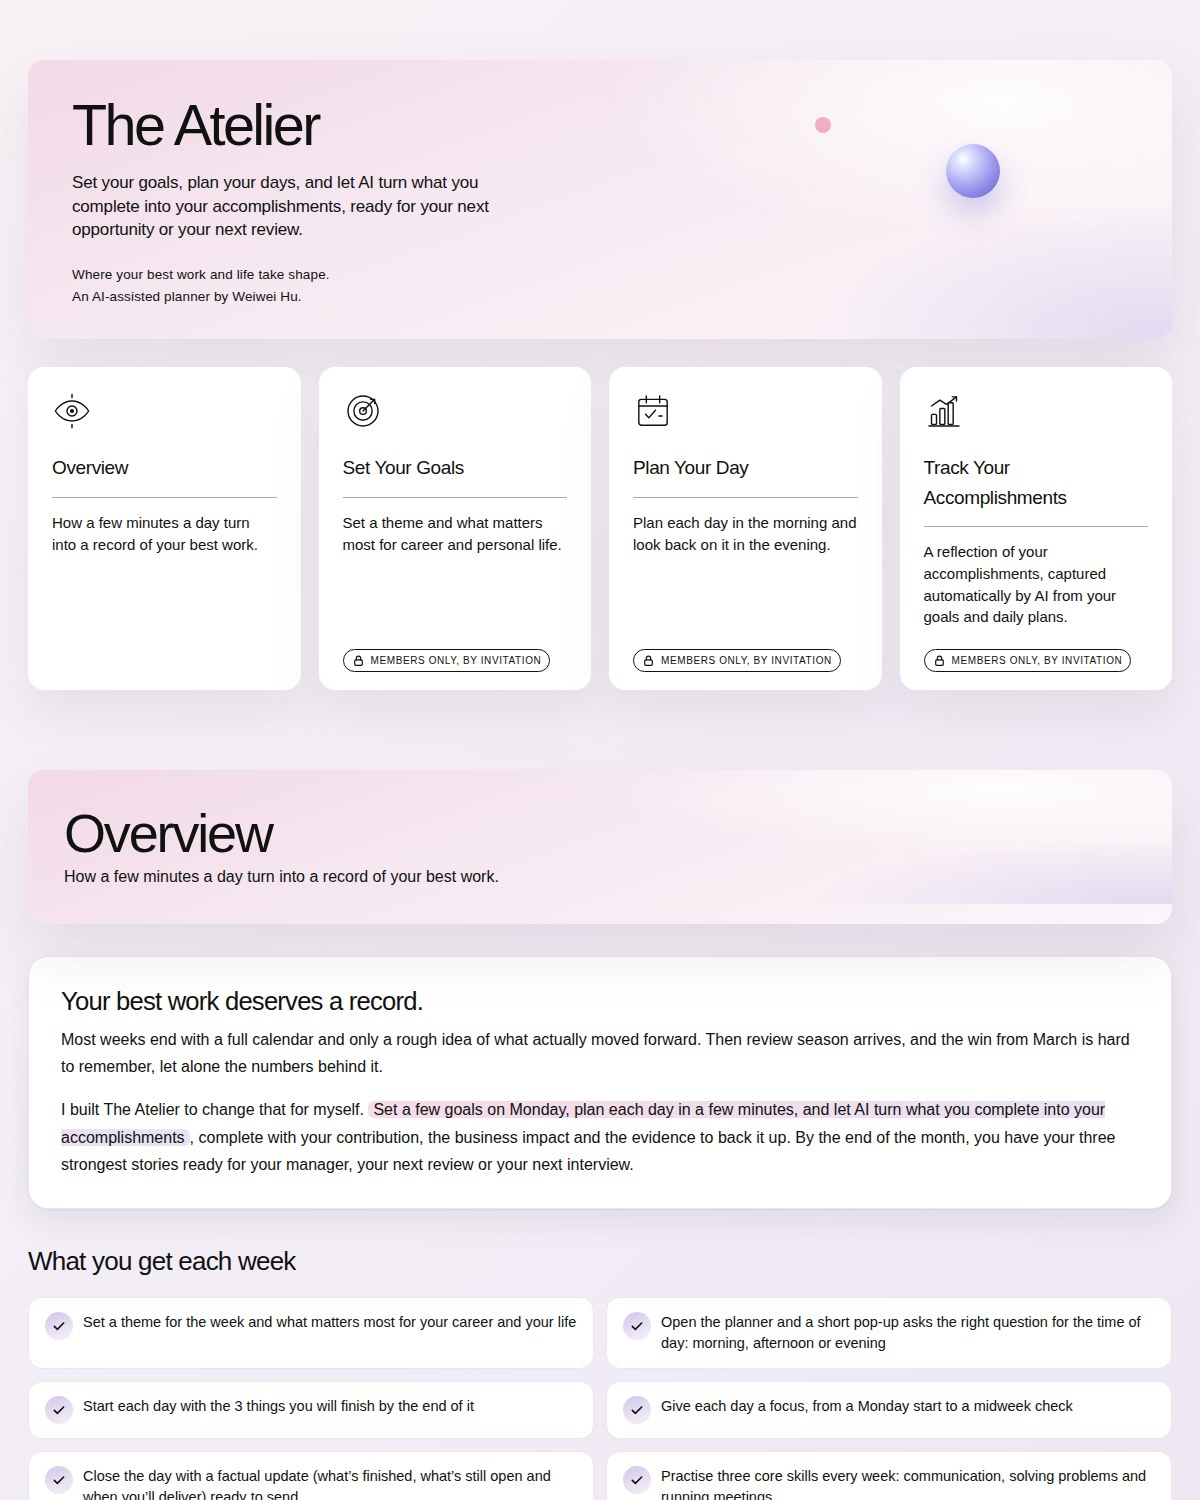
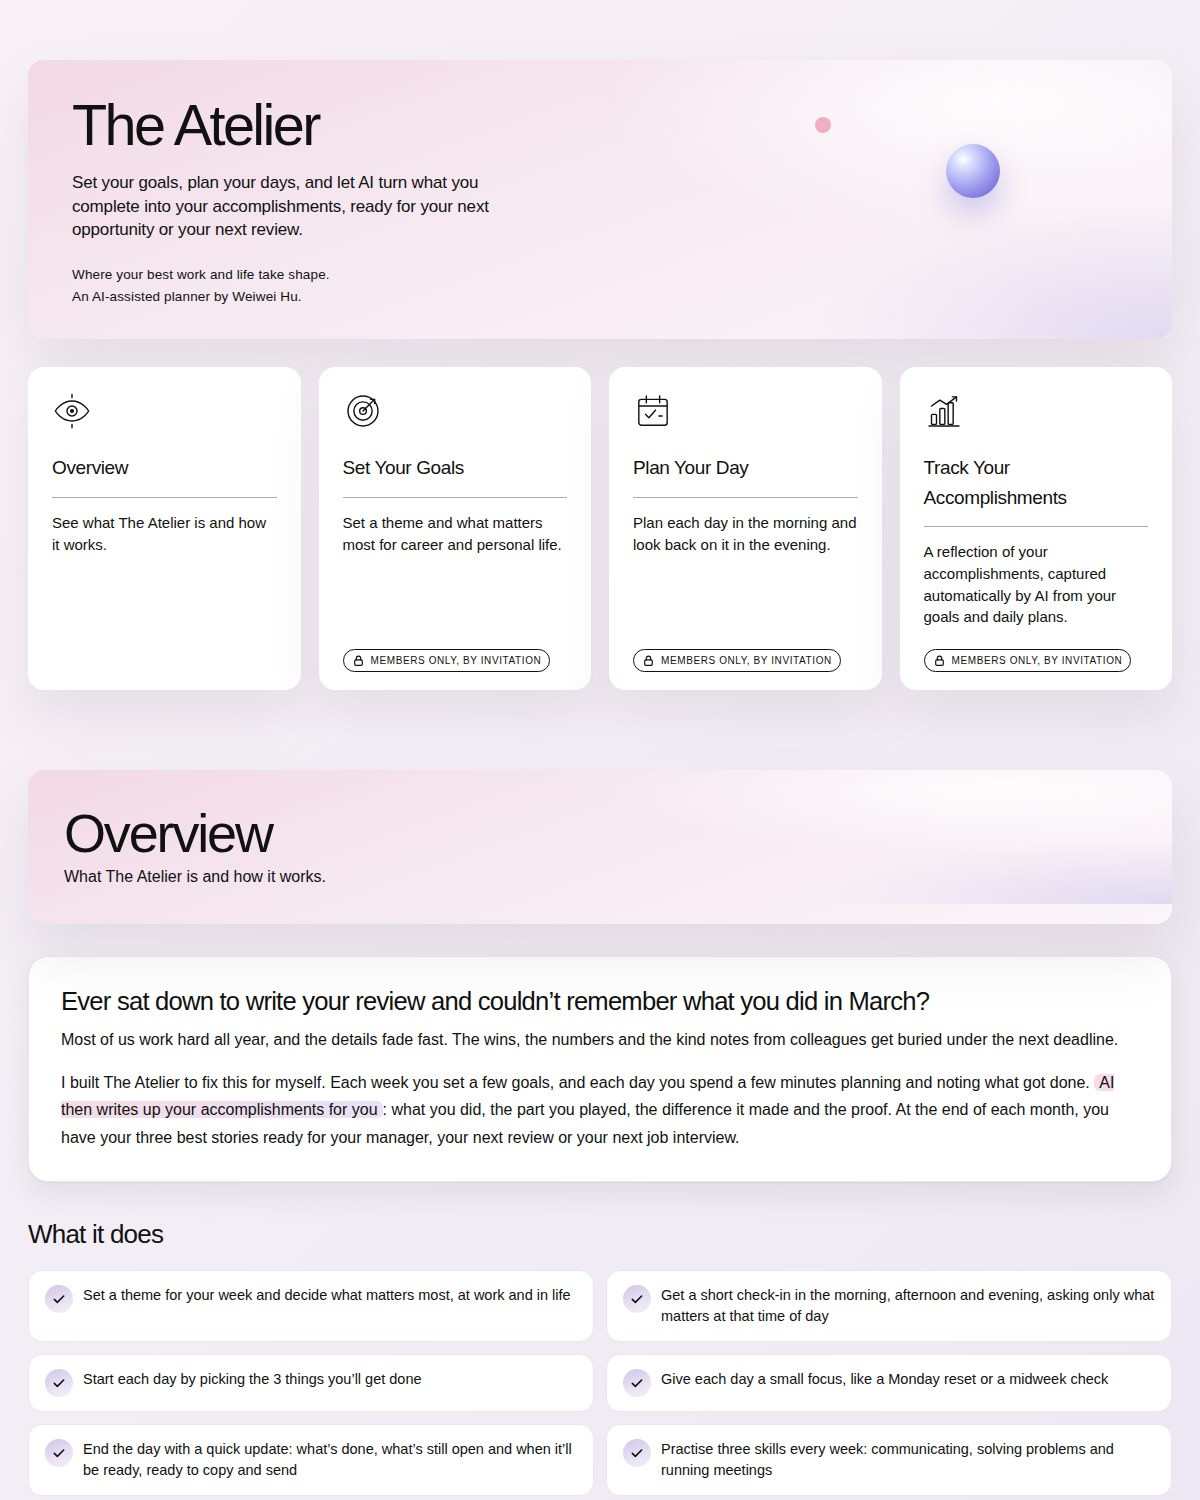
Overview in plain, everyday language

diff --git a/index.html b/index.html
@@ -2472,7 +2472,7 @@ b, strong, .exportbtn, .crumbs button[aria-current="page"], .seg button[aria-pre
     <div class="tilegrid" id="pageTabs">
       <a class="navtile static" href="#overview">
         <span class="nt-head">Overview</span>
-        <span class="nt-body"><svg viewBox="0 0 48 48" fill="none" stroke="currentColor" stroke-width="2.2" stroke-linecap="round" stroke-linejoin="round" aria-hidden="true"><path d="M4 24s7-12 20-12 20 12 20 12-7 12-20 12S4 24 4 24Z"></path><circle cx="24" cy="24" r="6"></circle><circle cx="24" cy="24" r="1.6" fill="currentColor"></circle><path d="M24 4v4M24 40v4"></path></svg><span class="nt-desc">How a few minutes a day turn into a record of your best work.</span></span>
+        <span class="nt-body"><svg viewBox="0 0 48 48" fill="none" stroke="currentColor" stroke-width="2.2" stroke-linecap="round" stroke-linejoin="round" aria-hidden="true"><path d="M4 24s7-12 20-12 20 12 20 12-7 12-20 12S4 24 4 24Z"></path><circle cx="24" cy="24" r="6"></circle><circle cx="24" cy="24" r="1.6" fill="currentColor"></circle><path d="M24 4v4M24 40v4"></path></svg><span class="nt-desc">See what The Atelier is and how it works.</span></span>
       </a>
       <a class="navtile static locked" href="#members">
         <span class="nt-head">Set Your Goals<span class="nt-lock"><svg viewBox="0 0 24 24" fill="none" stroke="currentColor" stroke-width="2.2" stroke-linecap="round" stroke-linejoin="round" aria-hidden="true"><rect x="5" y="11" width="14" height="10" rx="2"></rect><path d="M8 11V8a4 4 0 0 1 8 0v3"></path></svg>Members only, by invitation</span></span>
@@ -2500,30 +2500,30 @@ b, strong, .exportbtn, .crumbs button[aria-current="page"], .seg button[aria-pre
   <div id="overview" class="intro">
     <header>
       <h1>Overview</h1>
-      <p class="intro-sub">How a few minutes a day turn into a record of your best work.</p>
+      <p class="intro-sub">What The Atelier is and how it works.</p>
     </header>
     <section class="story" aria-label="Why I made it">
-      <p><span class="lead">Your best work deserves a record.</span> Most weeks end with a full calendar and only a rough idea of what actually moved forward. Then review season arrives, and the win from March is hard to remember, let alone the numbers behind it.</p>
-      <p>I built The Atelier to change that for myself. <strong>Set a few goals on Monday, plan each day in a few minutes, and let AI turn what you complete into your accomplishments</strong>, complete with your contribution, the business impact and the evidence to back it up. By the end of the month, you have your three strongest stories ready for your manager, your next review or your next interview.</p>
+      <p><span class="lead">Ever sat down to write your review and couldn’t remember what you did in March?</span> Most of us work hard all year, and the details fade fast. The wins, the numbers and the kind notes from colleagues get buried under the next deadline.</p>
+      <p>I built The Atelier to fix this for myself. Each week you set a few goals, and each day you spend a few minutes planning and noting what got done. <strong>AI then writes up your accomplishments for you</strong>: what you did, the part you played, the difference it made and the proof. At the end of each month, you have your three best stories ready for your manager, your next review or your next job interview.</p>
     </section>
     <section aria-labelledby="introCan">
-      <h2 id="introCan">What you get each week</h2>
+      <h2 id="introCan">What it does</h2>
       <ul class="feat">
-        <li><span class="ic"><svg viewBox="0 0 24 24" fill="none" stroke="currentColor" stroke-width="2.4" stroke-linecap="round" stroke-linejoin="round" aria-hidden="true"><path d="M5 12.5l4.5 4.5L19 7.5"></path></svg></span><span>Set a theme for the week and what matters most for your career and your life</span></li>
-        <li><span class="ic"><svg viewBox="0 0 24 24" fill="none" stroke="currentColor" stroke-width="2.4" stroke-linecap="round" stroke-linejoin="round" aria-hidden="true"><path d="M5 12.5l4.5 4.5L19 7.5"></path></svg></span><span>Open the planner and a short pop-up asks the right question for the time of day: morning, afternoon or evening</span></li>
-        <li><span class="ic"><svg viewBox="0 0 24 24" fill="none" stroke="currentColor" stroke-width="2.4" stroke-linecap="round" stroke-linejoin="round" aria-hidden="true"><path d="M5 12.5l4.5 4.5L19 7.5"></path></svg></span><span>Start each day with the 3 things you will finish by the end of it</span></li>
-        <li><span class="ic"><svg viewBox="0 0 24 24" fill="none" stroke="currentColor" stroke-width="2.4" stroke-linecap="round" stroke-linejoin="round" aria-hidden="true"><path d="M5 12.5l4.5 4.5L19 7.5"></path></svg></span><span>Give each day a focus, from a Monday start to a midweek check</span></li>
-        <li><span class="ic"><svg viewBox="0 0 24 24" fill="none" stroke="currentColor" stroke-width="2.4" stroke-linecap="round" stroke-linejoin="round" aria-hidden="true"><path d="M5 12.5l4.5 4.5L19 7.5"></path></svg></span><span>Close the day with a factual update (what’s finished, what’s still open and when you’ll deliver) ready to send</span></li>
-        <li><span class="ic"><svg viewBox="0 0 24 24" fill="none" stroke="currentColor" stroke-width="2.4" stroke-linecap="round" stroke-linejoin="round" aria-hidden="true"><path d="M5 12.5l4.5 4.5L19 7.5"></path></svg></span><span>Practise three core skills every week: communication, solving problems and running meetings</span></li>
-        <li><span class="ic"><svg viewBox="0 0 24 24" fill="none" stroke="currentColor" stroke-width="2.4" stroke-linecap="round" stroke-linejoin="round" aria-hidden="true"><path d="M5 12.5l4.5 4.5L19 7.5"></path></svg></span><span>Let AI capture your weekly accomplishments: what you delivered, your contribution, business impact, evidence and career value</span></li>
-        <li><span class="ic"><svg viewBox="0 0 24 24" fill="none" stroke="currentColor" stroke-width="2.4" stroke-linecap="round" stroke-linejoin="round" aria-hidden="true"><path d="M5 12.5l4.5 4.5L19 7.5"></path></svg></span><span>Get a monthly reflection with your three strongest wins, who needs to know, and what they prove about your next role</span></li>
-        <li><span class="ic"><svg viewBox="0 0 24 24" fill="none" stroke="currentColor" stroke-width="2.4" stroke-linecap="round" stroke-linejoin="round" aria-hidden="true"><path d="M5 12.5l4.5 4.5L19 7.5"></path></svg></span><span>Carry unfinished tasks forward and look back at any past week</span></li>
-        <li><span class="ic"><svg viewBox="0 0 24 24" fill="none" stroke="currentColor" stroke-width="2.4" stroke-linecap="round" stroke-linejoin="round" aria-hidden="true"><path d="M5 12.5l4.5 4.5L19 7.5"></path></svg></span><span>Print the pack when you’d rather plan on paper</span></li>
+        <li><span class="ic"><svg viewBox="0 0 24 24" fill="none" stroke="currentColor" stroke-width="2.4" stroke-linecap="round" stroke-linejoin="round" aria-hidden="true"><path d="M5 12.5l4.5 4.5L19 7.5"></path></svg></span><span>Set a theme for your week and decide what matters most, at work and in life</span></li>
+        <li><span class="ic"><svg viewBox="0 0 24 24" fill="none" stroke="currentColor" stroke-width="2.4" stroke-linecap="round" stroke-linejoin="round" aria-hidden="true"><path d="M5 12.5l4.5 4.5L19 7.5"></path></svg></span><span>Get a short check-in in the morning, afternoon and evening, asking only what matters at that time of day</span></li>
+        <li><span class="ic"><svg viewBox="0 0 24 24" fill="none" stroke="currentColor" stroke-width="2.4" stroke-linecap="round" stroke-linejoin="round" aria-hidden="true"><path d="M5 12.5l4.5 4.5L19 7.5"></path></svg></span><span>Start each day by picking the 3 things you’ll get done</span></li>
+        <li><span class="ic"><svg viewBox="0 0 24 24" fill="none" stroke="currentColor" stroke-width="2.4" stroke-linecap="round" stroke-linejoin="round" aria-hidden="true"><path d="M5 12.5l4.5 4.5L19 7.5"></path></svg></span><span>Give each day a small focus, like a Monday reset or a midweek check</span></li>
+        <li><span class="ic"><svg viewBox="0 0 24 24" fill="none" stroke="currentColor" stroke-width="2.4" stroke-linecap="round" stroke-linejoin="round" aria-hidden="true"><path d="M5 12.5l4.5 4.5L19 7.5"></path></svg></span><span>End the day with a quick update you can copy and send: what’s done, what’s still open and when it’ll be ready</span></li>
+        <li><span class="ic"><svg viewBox="0 0 24 24" fill="none" stroke="currentColor" stroke-width="2.4" stroke-linecap="round" stroke-linejoin="round" aria-hidden="true"><path d="M5 12.5l4.5 4.5L19 7.5"></path></svg></span><span>Practise three skills every week: communicating, solving problems and running meetings</span></li>
+        <li><span class="ic"><svg viewBox="0 0 24 24" fill="none" stroke="currentColor" stroke-width="2.4" stroke-linecap="round" stroke-linejoin="round" aria-hidden="true"><path d="M5 12.5l4.5 4.5L19 7.5"></path></svg></span><span>Let AI write up your wins each week: what you did, your part, the impact, the proof and what it says about you</span></li>
+        <li><span class="ic"><svg viewBox="0 0 24 24" fill="none" stroke="currentColor" stroke-width="2.4" stroke-linecap="round" stroke-linejoin="round" aria-hidden="true"><path d="M5 12.5l4.5 4.5L19 7.5"></path></svg></span><span>Each month, see your three biggest wins, who should hear about them and what they show about your next step</span></li>
+        <li><span class="ic"><svg viewBox="0 0 24 24" fill="none" stroke="currentColor" stroke-width="2.4" stroke-linecap="round" stroke-linejoin="round" aria-hidden="true"><path d="M5 12.5l4.5 4.5L19 7.5"></path></svg></span><span>Move unfinished tasks to next week and look back at any week you like</span></li>
+        <li><span class="ic"><svg viewBox="0 0 24 24" fill="none" stroke="currentColor" stroke-width="2.4" stroke-linecap="round" stroke-linejoin="round" aria-hidden="true"><path d="M5 12.5l4.5 4.5L19 7.5"></path></svg></span><span>Print the pages if you prefer pen and paper</span></li>
       </ul>
     </section>
-    <section aria-labelledby="introPrint"><h2 id="introPrint">Printable and download bundle</h2><p>Prefer paper? A printable pack is on the way: 14 undated pages in A4 and US Letter, with a focus for each day, a set-your-goals page, a monthly to-do list, daily pages, a weekly accomplishments page and a monthly reflection. A bundle will also include a copy of the planner you can open in your own browser.</p><img src="printable-preview.jpg" alt="Four pages from the printable pack: the cover, set your goals, a Monday page and weekly accomplishments" width="1800" height="639" loading="lazy" style="display:block;width:100%;height:auto;margin-top:16px;border-radius:14px;border:1px solid var(--line)"></section><section class="cta" aria-labelledby="introHow">
+    <section aria-labelledby="introPrint"><h2 id="introPrint">Printable and download bundle</h2><p>Prefer paper? A printable pack is coming soon: 14 undated pages in A4 and US Letter. It has a focus for each day, a goals page, a monthly to-do list, daily pages, a weekly accomplishments page and a monthly reflection. You’ll also be able to download a copy of the planner to use in your own browser.</p><img src="printable-preview.jpg" alt="Four pages from the printable pack: the cover, set your goals, a Monday page and weekly accomplishments" width="1800" height="639" loading="lazy" style="display:block;width:100%;height:auto;margin-top:16px;border-radius:14px;border:1px solid var(--line)"></section><section class="cta" aria-labelledby="introHow">
       <h2 id="introHow">Want a planner like this?</h2>
-      <p>The full planner is private. If you’d like to plan your weeks this way and build your own record of accomplishments, send me a message on LinkedIn and tell me a little about your work. I’d love to hear what you’re working towards.</p>
+      <p>The full planner is private. If you’d like to plan your weeks this way and keep track of your own wins, send me a message on LinkedIn and tell me a little about your work. I’d love to hear what you’re working towards.</p>
       <a class="cta-btn" href="https://www.linkedin.com/in/weiweihu/" target="_blank" rel="noopener"><svg viewBox="0 0 24 24" aria-hidden="true" fill="currentColor"><path d="M4.98 3.5a2.5 2.5 0 1 1 0 5 2.5 2.5 0 0 1 0-5ZM3 9.75h4v11H3v-11Zm6.5 0h3.8v1.5h.06c.53-1 1.83-1.8 3.76-1.8 4 0 4.88 2.4 4.88 5.6v5.7h-4v-5.05c0-1.2-.02-2.75-1.7-2.75-1.7 0-1.95 1.3-1.95 2.66v5.14h-4v-11Z"></path></svg> Message me on LinkedIn</a>
     </section>
   </div>

diff --git a/README.md b/README.md
@@ -8,36 +8,36 @@ Set your goals, plan your days, and let AI turn what you complete into your acco
 
 ![The Atelier: the home page and the Overview](cover.jpg)
 
-## Your best work deserves a record
+## Why I built it
 
-Most weeks end with a full calendar and only a rough idea of what actually moved forward. Then review season arrives, and the win from March is hard to remember, let alone the numbers behind it.
+Ever sat down to write your review and couldn't remember what you did in March? Most of us work hard all year, and the details fade fast. The wins, the numbers and the kind notes from colleagues get buried under the next deadline.
 
-I built The Atelier to change that for myself. Set a few goals on Monday, plan each day in a few minutes, and let AI turn what you complete into your accomplishments, complete with your contribution, the business impact and the evidence to back it up. By the end of the month, you have your three strongest stories ready for your manager, your next review or your next interview.
+I built The Atelier to fix this for myself. Each week you set a few goals, and each day you spend a few minutes planning and noting what got done. AI then writes up your accomplishments for you: what you did, the part you played, the difference it made and the proof. At the end of each month, you have your three best stories ready for your manager, your next review or your next job interview.
 
-## What you get each week
+## What it does
 
 The planner has three pages: **Set Your Goals**, **Plan Your Day** and **Track Your Accomplishments**. They are members only, by invitation.
 
-- Set a theme for the week and what matters most for your career and your life
-- Open the planner and a short pop-up asks the right question for the time of day: morning, afternoon or evening
-- Start each day with the 3 things you will finish by the end of it
-- Give each day a focus, from a Monday start to a midweek check
-- Close the day with a factual update (what's finished, what's still open and when you'll deliver) ready to send
-- Practise three core skills every week: communication, solving problems and running meetings
-- Let AI capture your weekly accomplishments: what you delivered, your contribution, business impact, evidence and career value
-- Get a monthly reflection with your three strongest wins, who needs to know, and what they prove about your next role
-- Carry unfinished tasks forward and look back at any past week
-- Print the pack when you'd rather plan on paper
+- Set a theme for your week and decide what matters most, at work and in life
+- Get a short check-in in the morning, afternoon and evening, asking only what matters at that time of day
+- Start each day by picking the 3 things you'll get done
+- Give each day a small focus, like a Monday reset or a midweek check
+- End the day with a quick update you can copy and send: what's done, what's still open and when it'll be ready
+- Practise three skills every week: communicating, solving problems and running meetings
+- Let AI write up your wins each week: what you did, your part, the impact, the proof and what it says about you
+- Each month, see your three biggest wins, who should hear about them and what they show about your next step
+- Move unfinished tasks to next week and look back at any week you like
+- Print the pages if you prefer pen and paper
 
 ## Printable and download bundle
 
-Prefer paper? A printable pack is on the way: 14 undated pages in A4 and US Letter, with a focus for each day, a set-your-goals page, a monthly to-do list, daily pages, a weekly accomplishments page and a monthly reflection. A bundle will also include a copy of the planner you can open in your own browser.
+Prefer paper? A printable pack is coming soon: 14 undated pages in A4 and US Letter. It has a focus for each day, a goals page, a monthly to-do list, daily pages, a weekly accomplishments page and a monthly reflection. You'll also be able to download a copy of the planner to use in your own browser.
 
 ![Four pages from the printable pack](printable-preview.jpg)
 
 ## Want a planner like this?
 
-The full planner is private, and this repository holds only its public showcase page. If you'd like to plan your weeks this way and build your own record of accomplishments, message me on [LinkedIn](https://www.linkedin.com/in/weiweihu/) and tell me a little about your work. I'd love to hear what you're working towards.
+The full planner is private, and this repository holds only its public page. If you'd like to plan your weeks this way and keep track of your own wins, message me on [LinkedIn](https://www.linkedin.com/in/weiweihu/) and tell me a little about your work. I'd love to hear what you're working towards.
 
 ---
 
